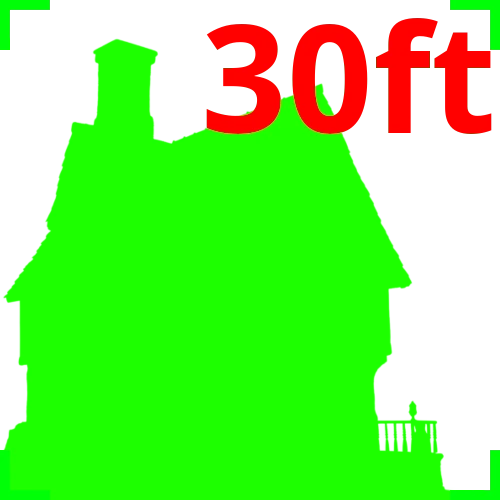
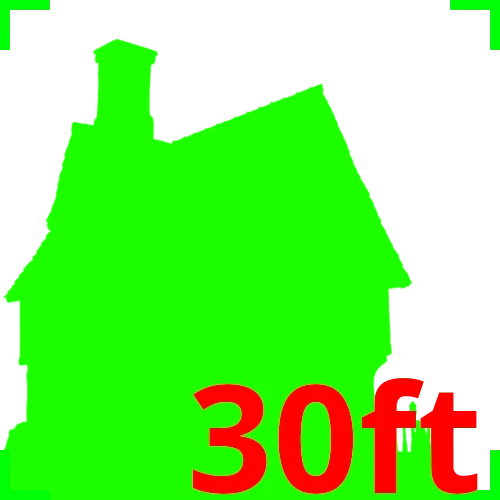
start of scenescape config window

Changed region(s): [[0.36, 0.75, 0.96, 0.99], [0.39, 0.03, 0.99, 0.27]]

diff --git a/multi-token-edit/scripts/scenescape/controls.js b/multi-token-edit/scripts/scenescape/controls.js
@@ -1,4 +1,5 @@
 import { MODULE_ID } from '../constants.js';
+import { editPreviewPlaceables, Picker } from '../picker.js';
 import { libWrapper } from '../shim/shim.js';
 import { loadImageVideoDimensions } from '../utils.js';
 import { SceneScape } from './scenescape.js';
@@ -57,11 +58,27 @@ export class ScenescapeControls {
 
       let { width, height } = await loadImageVideoDimensions(token.texture.src);
       if (width && height) {
+        const bottom = {
+          x: token.x + (token.width * canvas.dimensions.size) / 2,
+          y: token.y + token.height * canvas.dimensions.size,
+        };
+
+        const { scale, elevation } = SceneScape.getParallaxParameters(bottom);
+
+        const actorDefinedSize = (this._getActorSize(token.actor) / 6) * 100;
+        const r = actorDefinedSize / height;
+
+        width *= scale * r;
+        height *= scale * r;
+
+        const x = bottom.x - width / 2;
+        const y = bottom.y - height;
+
         width /= canvas.dimensions.size;
         height /= canvas.dimensions.size;
-        token.update({ width, height, flags: { [MODULE_ID]: { width, height } } });
+
+        token.update({ x, y, width, height, elevation, flags: { [MODULE_ID]: { width, height } } });
       }
-      // TODO scale
     });
     this._hooks.push({ hook: 'createToken', id });
   }
@@ -122,6 +139,40 @@ export class ScenescapeControls {
       'WRAPPER'
     );
     this._wrapperIds.push(id);
+
+    /**
+     * Activate Picker preview instead of regular drag/drop flow
+     */
+    id = libWrapper.register(
+      MODULE_ID,
+      'PlaceableObject.prototype._onDragLeftStart',
+      function (event) {
+        let objects = this.layer.options.controllableObjects ? this.layer.controlled : [this];
+
+        objects = objects.filter((o) => o._canDrag(game.user, event) && !o.document.locked);
+
+        if (objects.length) {
+          editPreviewPlaceables(objects, true);
+        }
+
+        event.interactionData.clones = [];
+        return false;
+      },
+      'OVERRIDE'
+    );
+    this._wrapperIds.push(id);
+
+    id = libWrapper.register(
+      MODULE_ID,
+      'PlaceableObject.prototype._canDragLeftStart',
+      function (wrapped, user, event) {
+        if (Picker.isActive()) return false;
+
+        return wrapped(user, event);
+      },
+      'MIXED'
+    );
+    this._wrapperIds.push(id);
   }
 
   static async _moveMany({ dx = 0, dy = 0, rotate = false, ids, includeLocked = false } = {}) {
@@ -180,12 +231,38 @@ export class ScenescapeControls {
 
       update.elevation = nParams.elevation;
 
-      console.log(update);
-
       return update;
     });
 
     await canvas.scene.updateEmbeddedDocuments(documentName, updateData, { teleport: true });
     return objects;
+  }
+
+  /**
+   * Determines actor size in feet
+   * @param {Actor} actor
+   * @returns {Number} feet
+   */
+  static _getActorSize(actor) {
+    // Retrieves numbers from a string assuming the first number represents feet and the 2nd inches
+    // The total is returned in feet
+    // e.g. "6 feet 6 inches" => 6.5
+    // e.g. 4'3'' => 4.25
+    const parseHeightString = function (heightString) {
+      const matches = heightString.match(/[\d|,|.|\+]+/g);
+      if (matches?.length) {
+        let feet = matches[0];
+        if (matches.length > 1 && matches[1] > 0) feet += matches[1] / 12;
+        return feet;
+      }
+      return null;
+    };
+
+    if (game.system.id === 'dnd5e') {
+      const height = parseHeightString(actor.system.details?.height ?? '');
+      if (height) return height;
+    }
+
+    return actor.prototypeToken.height * 6;
   }
 }

diff --git a/multi-token-edit/scripts/scenescape/configuration.js b/multi-token-edit/scripts/scenescape/configuration.js
@@ -1,0 +1,93 @@
+import { MODULE_ID, PIVOTS } from '../constants.js';
+import { Preset } from '../presets/preset.js';
+import { Spawner } from '../presets/spawner.js';
+
+const TEMPLATES = [
+  { height: 3, src: `modules/${MODULE_ID}/images/3ft.webp` },
+  { height: 6, src: `modules/${MODULE_ID}/images/6ft.webp` },
+  { height: 30, src: `modules/${MODULE_ID}/images/30ft.webp` },
+  { height: 100, src: `modules/${MODULE_ID}/images/100ft.webp` },
+];
+
+export default class ScenescapeConfig extends FormApplication {
+  constructor() {
+    super({}, {});
+    this.sceneId = canvas.scene.id;
+  }
+
+  static get defaultOptions() {
+    return foundry.utils.mergeObject(super.defaultOptions, {
+      id: 'mass-edit-scenescape',
+      classes: ['mass-edit-dark-window'],
+      template: `modules/${MODULE_ID}/templates/scenescape.html`,
+      resizable: true,
+      minimizable: false,
+      title: 'Scenescape',
+      width: 490,
+      height: 730,
+    });
+  }
+
+  async getData(options) {
+    const data = super.getData(options);
+    data.markerTemplates = TEMPLATES;
+    return data;
+  }
+
+  /**
+   * @param {JQuery} html
+   */
+  activateListeners(html) {
+    super.activateListeners(html);
+
+    html.on('click', '.marker > img', this._onClickMarker.bind(this));
+  }
+
+  async _onClickMarker(event) {
+    this._onMinimize();
+
+    const height = Number($(event.target).closest('.marker').data('height'));
+    const preset = new Preset({
+      documentName: 'Tile',
+      data: [
+        {
+          texture: { src: TEMPLATES.find((t) => t.height === height).src },
+          width: 100 * (height / 6),
+          height: 100 * (height / 6),
+          flags: {
+            [MODULE_ID]: {
+              scenescape: {
+                marker: true,
+                size: height,
+              },
+            },
+          },
+        },
+      ],
+      tags: [`${height}ft`],
+    });
+
+    await Spawner.spawnPreset({ preset, preview: true, pivot: PIVOTS.BOTTOM, snapToGrid: false });
+    this._onMaximize();
+  }
+
+  _onMinimize() {
+    this.minimize();
+    Object.values(ui.windows)
+      .find((w) => w.object.id === this.sceneId)
+      ?.minimize();
+  }
+
+  _onMaximize() {
+    this.maximize();
+    Object.values(ui.windows)
+      .find((w) => w.object.id === this.sceneId)
+      ?.maximize();
+  }
+
+  /**
+   * @param {Event} event
+   * @param {Object} formData
+   */
+  async _updateObject(event, formData) {}
+}

diff --git a/multi-token-edit/scripts/picker.js b/multi-token-edit/scripts/picker.js
@@ -79,7 +79,10 @@ export class Picker {
 
       if (SceneScape.active) {
         preview.snap = false;
-        Picker._paraScale = 1;
+
+        const b = getPresetDataBounds(preview.previewData);
+        const bottom = { x: b.x + b.width / 2, y: b.y + b.height };
+        Picker._paraScale = SceneScape.getParallaxParameters(bottom).scale;
       }
 
       let { previews, layer, previewDocuments } = await this._genPreviews(preview);
@@ -227,6 +230,7 @@ export class Picker {
         });
         pickerOverlay.on('mouseup', (event) => {
           Picker.boundEnd = event.data.getLocalPosition(pickerOverlay);
+          if (preview?.confirmOnRelease) this.resolve(Picker.boundEnd);
         });
         pickerOverlay.on('click', (event) => {
           if (event.nativeEvent.which == 2) {
@@ -465,15 +469,22 @@ export class Picker {
   }
 }
 
-export async function editPreviewPlaceables() {
+export async function editPreviewPlaceables(placeables, confirmOnRelease = false) {
   const controlled = new Set();
 
-  SUPPORTED_PLACEABLES.forEach((documentName) => {
-    canvas.getLayerByEmbeddedName(documentName).controlled.forEach((p) => {
+  if (placeables?.length) {
+    placeables.forEach((p) => {
       controlled.add(p.document);
       LinkerAPI.getLinkedDocuments(p.document).forEach((d) => controlled.add(d));
     });
-  });
+  } else {
+    SUPPORTED_PLACEABLES.forEach((documentName) => {
+      canvas.getLayerByEmbeddedName(documentName).controlled.forEach((p) => {
+        controlled.add(p.document);
+        LinkerAPI.getLinkedDocuments(p.document).forEach((d) => controlled.add(d));
+      });
+    });
+  }
 
   if (!controlled.size) {
     const pickerSelected = await pickerSelectMultiLayerDocuments();
@@ -552,6 +563,7 @@ export async function editPreviewPlaceables() {
       previewData: docToData,
       snap: true,
       pivot: PIVOTS.CENTER,
+      confirmOnRelease,
     }
   );
 }

diff --git a/multi-token-edit/scripts/scenescape/scenescape.js b/multi-token-edit/scripts/scenescape/scenescape.js
@@ -1,5 +1,5 @@
 import { MODULE_ID } from '../constants.js';
-import { updateEmbeddedDocumentsViaGM } from '../utils.js';
+import ScenescapeConfig from './configuration.js';
 import { ScenescapeControls } from './controls.js';
 
 export function registerSceneScapeHooks() {
@@ -20,11 +20,15 @@ export function registerSceneScapeHooks() {
         <button class="lockScale" type="button" data-tooltip="Lock scale.">
             <i class="fa-solid fa-arrows-from-dotted-line"></i>
         </button>
+        <button  class="configureScenescape" type="button" data-tooltip="Configure Scenescape">
+          <i class="fa-regular fa-mountain-sun"></i>
+        </button>
     </div>
 </div>
         `);
     element.on('click', '.selectHorizon', () => HorizonSelector.select(app));
     element.on('click', '.lockScale', () => ScenescapeScaler.lockScale());
+    element.on('click', '.configureScenescape', () => new ScenescapeConfig().render(true));
 
     html.find('.initial-position').after(element);
     app.setPosition({ height: 'auto' });
@@ -41,7 +45,7 @@ class ScenescapeScaler {
 
     // Retrieve marker tiles from the scene and sort them on the y-axis
     const markers = canvas.tiles.placeables
-      .filter((p) => p.document.getFlag(MODULE_ID, 'scenescape')?.control)
+      .filter((p) => p.document.getFlag(MODULE_ID, 'scenescape')?.marker)
       .map((p) => {
         const size = p.document.getFlag(MODULE_ID, 'scenescape').size;
         return {

diff --git a/multi-token-edit/templates/scenescape.html b/multi-token-edit/templates/scenescape.html
@@ -1,0 +1,24 @@
+<form>
+    <div class="form-group">
+        <label>Is this scene a Scenescape?</label>
+        <div class="form-fields">
+            <div class="form-fields">
+                <input type="checkbox" name="active" {{checked active}}>
+            </div>
+        </div>
+    </div>
+
+    <fieldset>
+        <legend>Configure</legend>
+
+        <p>Scale References</p>
+        <div class="" style="display: flex;">
+            {{#each markerTemplates as |template|}}
+            <div class="marker" style="flex:1;" data-height="{{template.height}}">
+                <img src="{{template.src}}" title="{{template.height}}">
+            </div>
+            {{/each}}
+        </div>
+        <p class="notes">Select and place reference tiles on the scene. ALT+Mouse Wheel can be used to scale the tile sup and down. </p>
+    </fieldset>
+</form>

diff --git a/multi-token-edit/scripts/presets/preset.js b/multi-token-edit/scripts/presets/preset.js
@@ -181,6 +181,17 @@ export class Preset {
   }
 
   /**
+   * Looks for a tag in the format of '#ft' and returns the numerical value
+   * @returns
+   */
+  scenescapeSizeOverride() {
+    const regex = new RegExp(/(\d+)ft/);
+    let size = this.tags.find((t) => t.match(regex))?.match(regex)[1];
+    if (size) return Number(size);
+    return null;
+  }
+
+  /**
    * Attach placeables
    * @param {Placeable|Array[Placeable]} placeables
    * @returns
